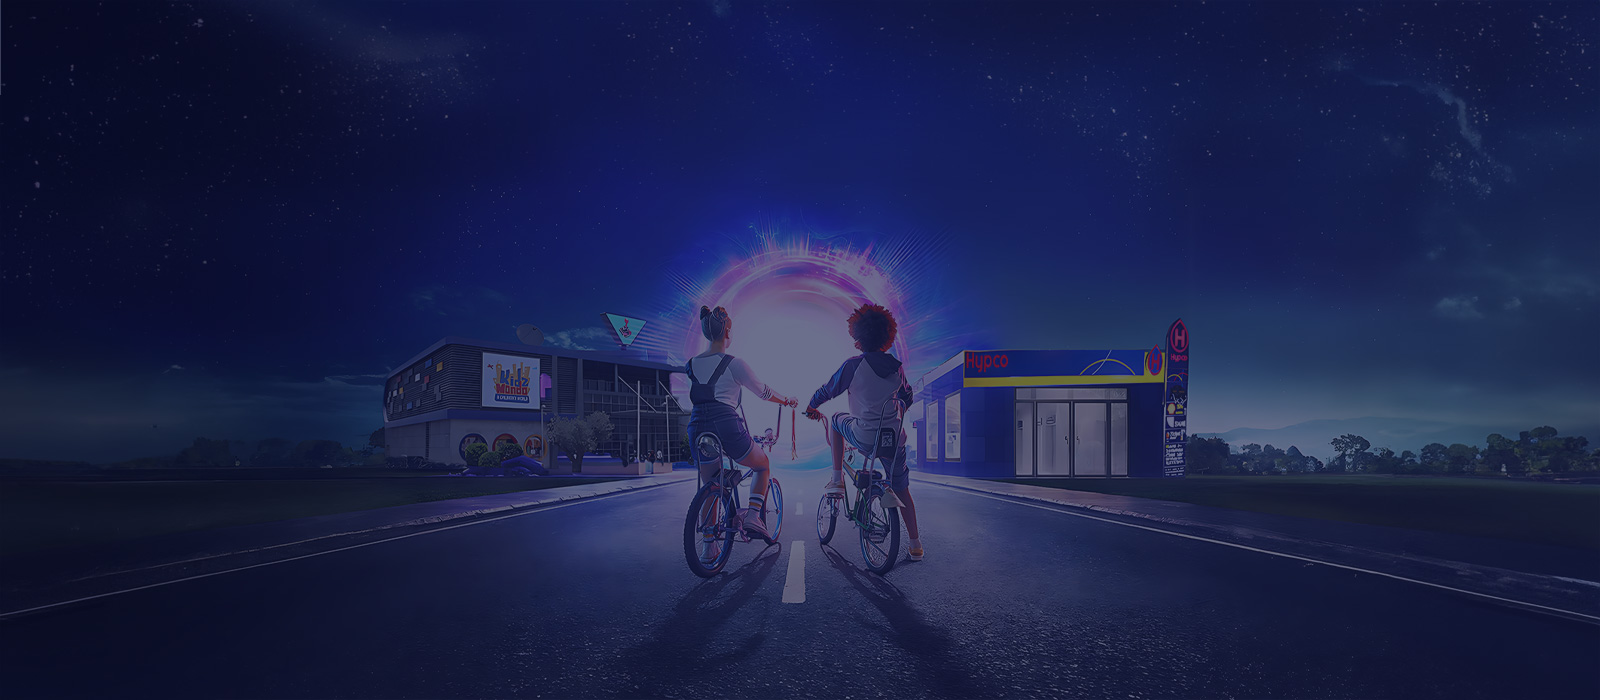
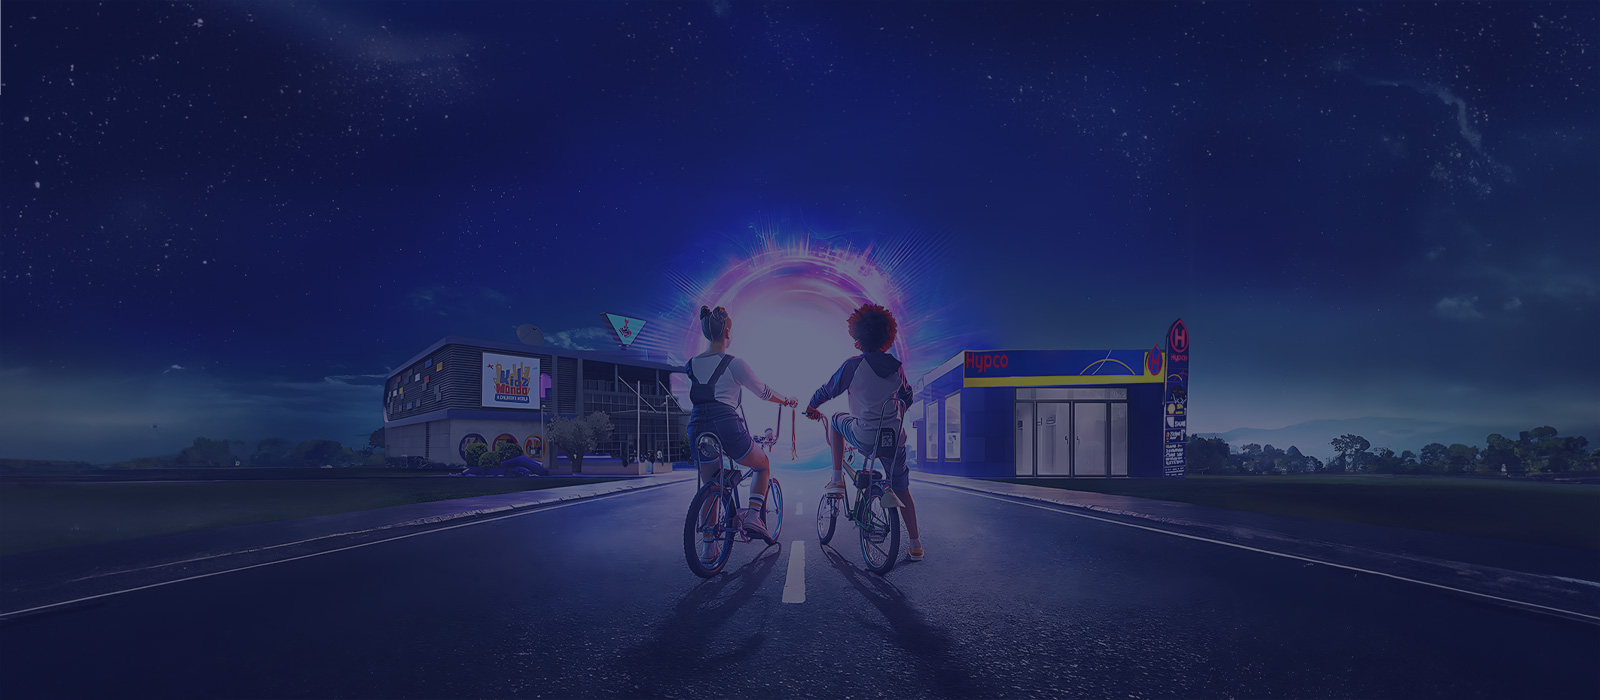
final audit 1

Changed region(s): [[0.0, 0.27, 0.2188, 0.69]]

diff --git a/components/common/Brands.tsx b/components/common/Brands.tsx
@@ -18,7 +18,7 @@ export default function Brands() {
                     <a href="#" className="brand-item">
                       <Image
                         alt=""
-                        src="/image/brand/vanfaba.svg"
+                        src="/image/logos/logos-01.png"
                         width={226}
                         height={44}
                       />
@@ -28,7 +28,7 @@ export default function Brands() {
                     <a href="#" className="brand-item">
                       <Image
                         alt=""
-                        src="/image/brand/panadoxn.svg"
+                        src="/image/logos/logos-02.png"
                         width={226}
                         height={44}
                       />
@@ -38,7 +38,7 @@ export default function Brands() {
                     <a href="#" className="brand-item">
                       <Image
                         alt=""
-                        src="/image/brand/slack.svg"
+                        src="/image/logos/logos-03.png"
                         width={226}
                         height={44}
                       />
@@ -48,7 +48,7 @@ export default function Brands() {
                     <a href="#" className="brand-item">
                       <Image
                         alt=""
-                        src="/image/brand/shangxi.svg"
+                        src="/image/logos/logos-04.png"
                         width={226}
                         height={44}
                       />
@@ -58,7 +58,7 @@ export default function Brands() {
                     <a href="#" className="brand-item">
                       <Image
                         alt=""
-                        src="/image/brand/spotify.svg"
+                        src="/image/logos/logos-05.png"
                         width={226}
                         height={44}
                       />
@@ -69,7 +69,7 @@ export default function Brands() {
                     <a href="#" className="brand-item">
                       <Image
                         alt=""
-                        src="/image/brand/vanfaba.svg"
+                        src="/image/logos/logos-01.png"
                         width={226}
                         height={44}
                       />
@@ -79,7 +79,7 @@ export default function Brands() {
                     <a href="#" className="brand-item">
                       <Image
                         alt=""
-                        src="/image/brand/panadoxn.svg"
+                        src="/image/logos/logos-02.png"
                         width={226}
                         height={44}
                       />
@@ -89,7 +89,7 @@ export default function Brands() {
                     <a href="#" className="brand-item">
                       <Image
                         alt=""
-                        src="/image/brand/slack.svg"
+                        src="/image/logos/logos-03.png"
                         width={226}
                         height={44}
                       />
@@ -99,7 +99,7 @@ export default function Brands() {
                     <a href="#" className="brand-item">
                       <Image
                         alt=""
-                        src="/image/brand/shangxi.svg"
+                        src="/image/logos/logos-04.png"
                         width={226}
                         height={44}
                       />
@@ -109,7 +109,7 @@ export default function Brands() {
                     <a href="#" className="brand-item">
                       <Image
                         alt=""
-                        src="/image/brand/spotify.svg"
+                        src="/image/logos/logos-05.png"
                         width={226}
                         height={44}
                       />
@@ -120,7 +120,7 @@ export default function Brands() {
                     <a href="#" className="brand-item">
                       <Image
                         alt=""
-                        src="/image/brand/vanfaba.svg"
+                        src="/image/logos/logos-01.png"
                         width={226}
                         height={44}
                       />
@@ -130,7 +130,7 @@ export default function Brands() {
                     <a href="#" className="brand-item">
                       <Image
                         alt=""
-                        src="/image/brand/panadoxn.svg"
+                        src="/image/logos/logos-02.png"
                         width={226}
                         height={44}
                       />
@@ -140,7 +140,7 @@ export default function Brands() {
                     <a href="#" className="brand-item">
                       <Image
                         alt=""
-                        src="/image/brand/slack.svg"
+                        src="/image/logos/logos-03.png"
                         width={226}
                         height={44}
                       />
@@ -150,7 +150,7 @@ export default function Brands() {
                     <a href="#" className="brand-item">
                       <Image
                         alt=""
-                        src="/image/brand/shangxi.svg"
+                        src="/image/logos/logos-04.png"
                         width={226}
                         height={44}
                       />
@@ -160,7 +160,7 @@ export default function Brands() {
                     <a href="#" className="brand-item">
                       <Image
                         alt=""
-                        src="/image/brand/spotify.svg"
+                        src="/image/logos/logos-05.png"
                         width={226}
                         height={44}
                       />
@@ -171,7 +171,7 @@ export default function Brands() {
                     <a href="#" className="brand-item">
                       <Image
                         alt=""
-                        src="/image/brand/vanfaba.svg"
+                        src="/image/logos/logos-01.png"
                         width={226}
                         height={44}
                       />
@@ -181,7 +181,7 @@ export default function Brands() {
                     <a href="#" className="brand-item">
                       <Image
                         alt=""
-                        src="/image/brand/panadoxn.svg"
+                        src="/image/logos/logos-02.png"
                         width={226}
                         height={44}
                       />
@@ -191,7 +191,7 @@ export default function Brands() {
                     <a href="#" className="brand-item">
                       <Image
                         alt=""
-                        src="/image/brand/slack.svg"
+                        src="/image/logos/logos-03.png"
                         width={226}
                         height={44}
                       />
@@ -201,7 +201,7 @@ export default function Brands() {
                     <a href="#" className="brand-item">
                       <Image
                         alt=""
-                        src="/image/brand/shangxi.svg"
+                        src="/image/logos/logos-04.png"
                         width={226}
                         height={44}
                       />
@@ -211,7 +211,7 @@ export default function Brands() {
                     <a href="#" className="brand-item">
                       <Image
                         alt=""
-                        src="/image/brand/spotify.svg"
+                        src="/image/logos/logos-05.png"
                         width={226}
                         height={44}
                       />

diff --git a/components/headers/Header4.tsx b/components/headers/Header4.tsx
@@ -62,7 +62,7 @@ export default function Header4({ onepage = false }) {
                   <a href="#">
                     <Image
                       alt=""
-                      src="/image/logo/kidzLogo2.svg"
+                      src="/image/logo/FLogo.svg"
                       width={170}
                       height={40}
                     />
@@ -121,7 +121,7 @@ export default function Header4({ onepage = false }) {
                   <Link href={`/digital-transformation`}>
                     <Image
                       alt=""
-                      src="/image/logo/kidzLogo2.svg"
+                      src="/image/logo/FLogo.svg"
                       width={169}
                       height={40}
                     />

diff --git a/public/scss/_responsive.scss b/public/scss/_responsive.scss
@@ -359,13 +359,18 @@
         align-items: center;
         justify-content: center;
 
-        width: 32px;      // smaller button size
+        width: 32px;
         height: 32px;
         padding: 0;
-        border-width: 1px; // optional: thinner border
+        border-width: 1px;
+
+        position: absolute;
+        top: 40%;                  
+        transform: translateY(-500%);
+        z-index: 5;
 
         i {
-          font-size: 12px; // smaller arrow icon
+          font-size: 12px;
         }
       }
 
@@ -379,6 +384,7 @@
     }
   }
 }
+
 
 @media (max-width: 1500px) {
   .page-title-home {

diff --git a/components/headers/Header5.tsx b/components/headers/Header5.tsx
@@ -40,7 +40,7 @@ export default function Header5({ onepage = false }) {
                     <Link href={`/`}>
                       <Image
                         alt=""
-                        src="/image/logo/kidzLogo2.svg"
+                        src="/image/logo/FLogo.svg"
                         width={170}
                         height={40}
                       />

diff --git a/components/headers/Header1.tsx b/components/headers/Header1.tsx
@@ -39,7 +39,7 @@ export default function Header1({ onepage = false }) {
                   <Link href={`/`}>
                     <Image
                       alt=""
-                      src="/image/logo/kidzLogo2.svg"
+                      src="/image/logo/FLogo.svg"
                       width={169}
                       height={40}
                     />

diff --git a/components/headers/Header6.tsx b/components/headers/Header6.tsx
@@ -44,7 +44,7 @@ export default function Header6({
                     <Link href={`/`}>
                       <Image
                         alt=""
-                        src="/image/logo/kidzLogo2.svg"
+                        src="/image/logo/FLogo.svg"
                         width={170}
                         height={40}
                       />

diff --git a/components/headers/Header3.tsx b/components/headers/Header3.tsx
@@ -42,7 +42,7 @@ export default function Header3({
                     <a href="#">
                       <Image
                         alt=""
-                        src="/image/logo/kidzLogo2.svg"
+                        src="/image/logo/FLogo.svg"
                         width={170}
                         height={40}
                       />

diff --git a/components/modals/MobileMenu.tsx b/components/modals/MobileMenu.tsx
@@ -28,6 +28,8 @@ export default function MobileMenu() {
 
   // Our Projects dropdown items (same as Nav)
   const projectLinks: MenuLink[] = [
+        { href: "/Our-Projects", title: "All Projects" },
+
     { href: "/projects/KidzMondo", title: "KidzMondo" },
     {
       href: "/projects/TheEscapeParkandResort",

diff --git a/public/scss/_sections.scss b/public/scss/_sections.scss
@@ -516,7 +516,7 @@ background-image: url("/image/page-title/our-ventures (1).png");
 
       &.img-h5-2 {
         &::before {
-          background-image: url("/image/section/Hero-Banner-2.jpg");
+          background-image: url("/image/section/hero-banner-2.jpg");
           // opacity: 0.5;
         }
       }
